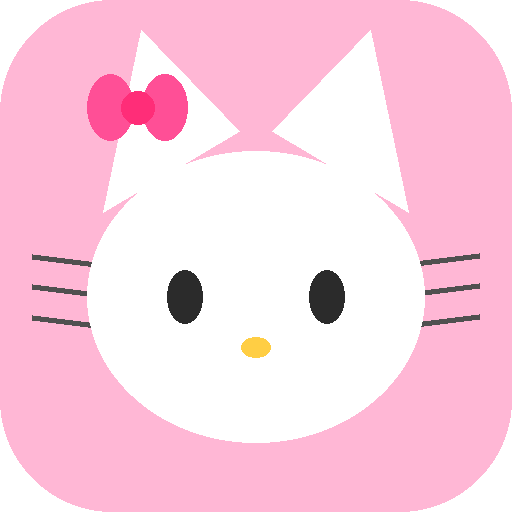
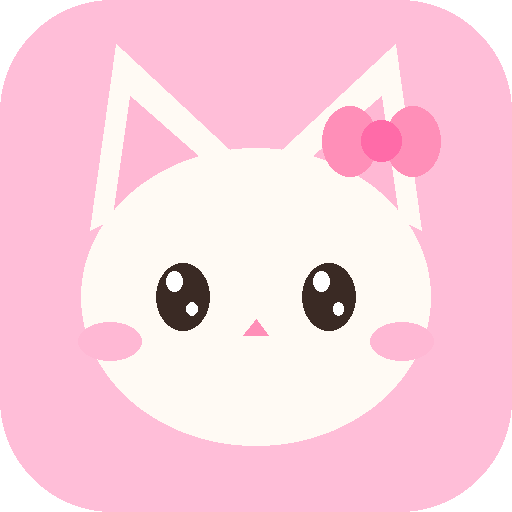
小猫改为更可爱的粉色蝴蝶结造型，重画图标

diff --git a/index.html b/index.html
@@ -14,21 +14,33 @@
 <body>
   <header class="app-header">
     <div class="kitty-wrap" id="kitty" title="点我打招呼～">
-      <svg class="kitty" viewBox="0 0 200 180">
-        <path d="M45 62 L28 12 L80 42 Z" fill="#fff" stroke="#3a3a3a" stroke-width="2.5" stroke-linejoin="round"/>
-        <path d="M155 62 L172 12 L120 42 Z" fill="#fff" stroke="#3a3a3a" stroke-width="2.5" stroke-linejoin="round"/>
-        <g stroke="#3a3a3a" stroke-width="3" stroke-linecap="round">
-          <line x1="14" y1="92" x2="52" y2="98"/><line x1="14" y1="106" x2="52" y2="108"/><line x1="14" y1="120" x2="52" y2="118"/>
-          <line x1="186" y1="92" x2="148" y2="98"/><line x1="186" y1="106" x2="148" y2="108"/><line x1="186" y1="120" x2="148" y2="118"/>
+      <svg class="kitty" viewBox="0 0 220 200">
+        <path d="M46 80 Q30 20 64 50 L92 74 Z" fill="#fffaf4" stroke="#5a3a2e" stroke-width="3.5" stroke-linejoin="round"/>
+        <path d="M174 80 Q190 20 156 50 L128 74 Z" fill="#fffaf4" stroke="#5a3a2e" stroke-width="3.5" stroke-linejoin="round"/>
+        <path d="M60 72 Q50 42 70 58 L84 72 Z" fill="#ffb8d4"/>
+        <path d="M160 72 Q170 42 150 58 L136 72 Z" fill="#ffb8d4"/>
+        <ellipse cx="110" cy="112" rx="86" ry="74" fill="#fffaf4" stroke="#5a3a2e" stroke-width="3.5"/>
+        <ellipse cx="78" cy="110" rx="14" ry="18" fill="#3a2a24"/>
+        <ellipse cx="142" cy="110" rx="14" ry="18" fill="#3a2a24"/>
+        <circle cx="73" cy="103" r="5.5" fill="#fff"/>
+        <circle cx="137" cy="103" r="5.5" fill="#fff"/>
+        <circle cx="83" cy="117" r="3" fill="#fff"/>
+        <circle cx="147" cy="117" r="3" fill="#fff"/>
+        <ellipse cx="54" cy="134" rx="13" ry="8" fill="#ffb8d4" opacity="0.75"/>
+        <ellipse cx="166" cy="134" rx="13" ry="8" fill="#ffb8d4" opacity="0.75"/>
+        <path d="M110 124 L103 132 L117 132 Z" fill="#ff8fb8"/>
+        <path d="M110 132 Q102 142 94 134" fill="none" stroke="#5a3a2e" stroke-width="3" stroke-linecap="round"/>
+        <path d="M110 132 Q118 142 126 134" fill="none" stroke="#5a3a2e" stroke-width="3" stroke-linecap="round"/>
+        <g stroke="#5a3a2e" stroke-width="3" stroke-linecap="round" opacity="0.85">
+          <line x1="22" y1="108" x2="58" y2="112"/>
+          <line x1="20" y1="126" x2="58" y2="124"/>
+          <line x1="198" y1="108" x2="162" y2="112"/>
+          <line x1="200" y1="126" x2="162" y2="124"/>
         </g>
-        <ellipse cx="100" cy="100" rx="76" ry="64" fill="#fff" stroke="#3a3a3a" stroke-width="2.5"/>
-        <ellipse cx="74" cy="98" rx="9" ry="13" fill="#2b2b2b"/>
-        <ellipse cx="126" cy="98" rx="9" ry="13" fill="#2b2b2b"/>
-        <ellipse cx="100" cy="122" rx="10" ry="7" fill="#ffce44"/>
-        <g transform="translate(150,50) rotate(18)">
-          <ellipse cx="-15" cy="0" rx="16" ry="12" fill="#ff7eb3" stroke="#3a3a3a" stroke-width="2"/>
-          <ellipse cx="15" cy="0" rx="16" ry="12" fill="#ff7eb3" stroke="#3a3a3a" stroke-width="2"/>
-          <circle cx="0" cy="0" r="7" fill="#ff4f96" stroke="#3a3a3a" stroke-width="2"/>
+        <g transform="translate(172,56) rotate(16)">
+          <path d="M0 0 Q-24 -18 -24 0 Q-24 18 0 0 Z" fill="#ff8fb8" stroke="#5a3a2e" stroke-width="3" stroke-linejoin="round"/>
+          <path d="M0 0 Q24 -18 24 0 Q24 18 0 0 Z" fill="#ff8fb8" stroke="#5a3a2e" stroke-width="3" stroke-linejoin="round"/>
+          <circle cx="0" cy="0" r="8" fill="#ff6ba8" stroke="#5a3a2e" stroke-width="3"/>
         </g>
       </svg>
       <div class="bubble hidden" id="kittyBubble"></div>

diff --git a/make_icon.py b/make_icon.py
@@ -1,58 +1,67 @@
 # -*- coding: utf-8 -*-
-"""生成 Hello Kitty 粉色 PWA 图标（192 / 512），保存到脚本所在目录。"""
+"""生成可爱小猫（粉色蝴蝶结）PWA 图标，保存到脚本所在目录。"""
 import os
 from PIL import Image, ImageDraw
 
 HERE = os.path.dirname(os.path.abspath(__file__))
+
+CREAM = (255, 250, 244, 255)
+PINK = (255, 143, 184, 255)
+PINK_D = (255, 107, 168, 255)
+PINK_L = (255, 184, 212, 255)
 
 
 def make(size, path):
     img = Image.new("RGBA", (size, size), (0, 0, 0, 0))
     d = ImageDraw.Draw(img)
 
-    # 粉色圆角底
-    d.rounded_rectangle([0, 0, size - 1, size - 1], radius=int(size * 0.22),
-                        fill=(255, 183, 213, 255))
+    d.rounded_rectangle([0, 0, size - 1, size - 1], radius=int(size * 0.22), fill=(255, 190, 216, 255))
 
     cx, cy = size * 0.5, size * 0.58
-    hr = size * 0.33
+    hr, vr = size * 0.34, size * 0.29
 
-    # 耳朵
-    d.polygon([(cx - hr * 0.9, cy - hr * 0.5), (cx - hr * 0.68, cy - hr * 1.58),
-               (cx - hr * 0.10, cy - hr * 0.98)], fill=(255, 255, 255, 255))
-    d.polygon([(cx + hr * 0.9, cy - hr * 0.5), (cx + hr * 0.68, cy - hr * 1.58),
-               (cx + hr * 0.10, cy - hr * 0.98)], fill=(255, 255, 255, 255))
-
-    # 胡须（在脸之前画，让脸盖住内侧）
-    w = max(1, int(size * 0.012))
-    for dy in (-0.18, 0.0, 0.18):
-        y = cy + hr * dy
-        d.line([cx - hr * 1.32, y - hr * 0.06, cx - hr * 0.85, y], fill=(80, 80, 80, 255), width=w)
-        d.line([cx + hr * 1.32, y - hr * 0.06, cx + hr * 0.85, y], fill=(80, 80, 80, 255), width=w)
+    # 耳朵（外部）
+    d.polygon([(cx - hr * 0.95, cy - vr * 0.45), (cx - hr * 0.80, cy - vr * 1.70),
+               (cx - hr * 0.12, cy - vr * 0.95)], fill=CREAM)
+    d.polygon([(cx + hr * 0.95, cy - vr * 0.45), (cx + hr * 0.80, cy - vr * 1.70),
+               (cx + hr * 0.12, cy - vr * 0.95)], fill=CREAM)
+    # 耳朵内部粉色
+    d.polygon([(cx - hr * 0.82, cy - vr * 0.55), (cx - hr * 0.72, cy - vr * 1.35),
+               (cx - hr * 0.30, cy - vr * 0.92)], fill=PINK_L)
+    d.polygon([(cx + hr * 0.82, cy - vr * 0.55), (cx + hr * 0.72, cy - vr * 1.35),
+               (cx + hr * 0.30, cy - vr * 0.92)], fill=PINK_L)
 
     # 头
-    d.ellipse([cx - hr, cy - hr * 0.86, cx + hr, cy + hr * 0.86], fill=(255, 255, 255, 255))
+    d.ellipse([cx - hr, cy - vr, cx + hr, cy + vr], fill=CREAM)
 
-    # 眼睛
-    er = size * 0.034
-    for ex in (cx - hr * 0.42, cx + hr * 0.42):
-        d.ellipse([ex - er, cy - er * 1.5, ex + er, cy + er * 1.5], fill=(43, 43, 43, 255))
+    # 大眼睛 + 高光
+    ex = hr * 0.42
+    erx, ery = size * 0.052, size * 0.066
+    for sx in (cx - ex, cx + ex):
+        d.ellipse([sx - erx, cy - ery, sx + erx, cy + ery], fill=(58, 42, 36, 255))
+        d.ellipse([sx - erx * 0.60, cy - ery * 0.75, sx - erx * 0.00, cy - ery * 0.15], fill=(255, 255, 255, 255))
+        d.ellipse([sx + erx * 0.15, cy + ery * 0.15, sx + erx * 0.55, cy + ery * 0.55], fill=(255, 255, 255, 255))
+
+    # 腮红
+    brx, bry = size * 0.062, size * 0.038
+    by2 = cy + vr * 0.30
+    d.ellipse([cx - hr * 0.84 - brx, by2 - bry, cx - hr * 0.84 + brx, by2 + bry], fill=PINK_L)
+    d.ellipse([cx + hr * 0.84 - brx, by2 - bry, cx + hr * 0.84 + brx, by2 + bry], fill=PINK_L)
 
     # 鼻子
-    nr = size * 0.028
-    d.ellipse([cx - nr, cy + hr * 0.30 - nr * 0.7, cx + nr, cy + hr * 0.30 + nr * 0.7],
-              fill=(255, 206, 68, 255))
+    ny = cy + vr * 0.15
+    d.polygon([(cx, ny), (cx - size * 0.024, ny + size * 0.032), (cx + size * 0.024, ny + size * 0.032)], fill=PINK)
 
-    # 蝴蝶结（左上）
-    bx, by = cx - hr * 0.70, cy - hr * 1.12
+    # 粉色蝴蝶结
+    bx, by = cx + hr * 0.72, cy - vr * 1.05
     b = size * 0.072
-    d.ellipse([bx - b * 1.35, by - b * 0.9, bx - b * 0.12, by + b * 0.9], fill=(255, 79, 150, 255))
-    d.ellipse([bx + b * 0.12, by - b * 0.9, bx + b * 1.35, by + b * 0.9], fill=(255, 79, 150, 255))
-    d.ellipse([bx - b * 0.45, by - b * 0.45, bx + b * 0.45, by + b * 0.45], fill=(255, 45, 120, 255))
+    d.ellipse([bx - b * 1.6, by - b * 0.95, bx - b * 0.10, by + b * 0.95], fill=PINK)
+    d.ellipse([bx + b * 0.10, by - b * 0.95, bx + b * 1.6, by + b * 0.95], fill=PINK)
+    d.ellipse([bx - b * 0.55, by - b * 0.55, bx + b * 0.55, by + b * 0.55], fill=PINK_D)
 
     img.save(path)
 
 
 make(192, os.path.join(HERE, "icon-192.png"))
 make(512, os.path.join(HERE, "icon-512.png"))
-print("kitty icons ->", HERE)
+print("cute cat icons ->", HERE)
